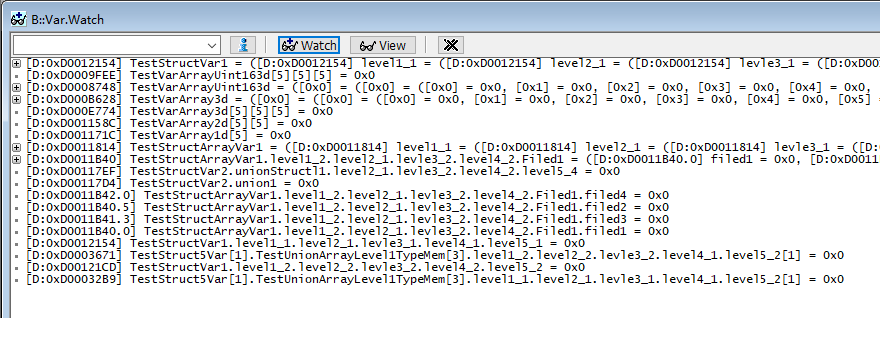
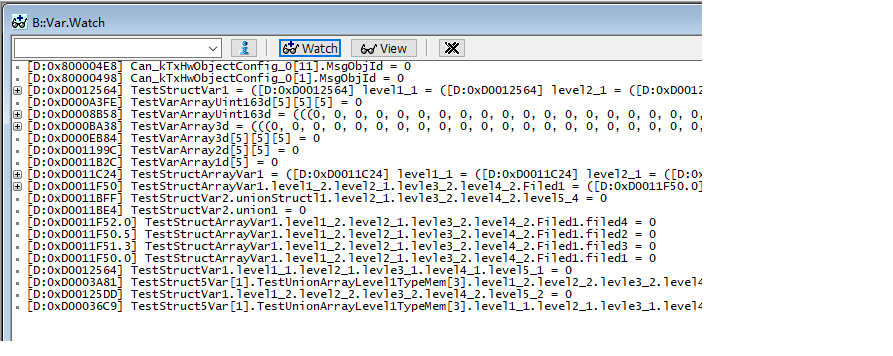
get_var_addr structure change.

diff --git a/elf_addr_dict.py b/elf_addr_dict.py
@@ -297,6 +297,47 @@ class ElfAddrObj(ELFFile):
             root_struct_name = self.offset_dict[root_type[self.DW_AT_TYPE]][self.DW_AT_NAME]
         return (root_struct_name, baseoffset, root_base_name)
 
+    def _get_array_member_info(self, mem, root_struct):
+        membaseoffset = 0
+        mem_base, offset = re.findall(self.re_pattern_varname, mem)[0]
+        off = re.findall(self._re_pattern, root_struct[mem_base]['DW_AT_data_member_location'])[0]
+        membaseoffset += int(off)
+        self._logger.info("Element :{0}, offset:{1}".format(mem_base, off))
+        root_type = self.offset_dict[self.array_type_dict[root_struct[mem_base][self.DW_AT_TYPE]][self.DW_AT_TYPE]]
+        mem_type = self.offset_dict[root_type[self.DW_AT_TYPE]]
+        mem_size = int(mem_type['DW_AT_byte_size'])
+        membaseoffset += mem_size * int(offset)
+        self._logger.info("Array type found with base member name:{0}, base size:{1}, membaseoffset:{2}".format(mem, mem_size,membaseoffset))
+        return (membaseoffset,root_type)
+
+    def _get_array_offset(self, array_name):
+        array_base_type = self.offset_dict[
+            self.offset_dict[self.variables_dict[array_name][self.DW_AT_TYPE]][self.DW_AT_TYPE]]
+        if array_base_type[self.ABBREV_TAG] != 'DW_TAG_base_type':
+            while ('DW_TAG_base_type' != array_base_type[self.ABBREV_TAG]):
+                array_base_type = self.offset_dict[array_base_type[self.DW_AT_TYPE]]
+        array_base_type_size = int(array_base_type['DW_AT_byte_size'])
+        variable_type = self.variables_dict[array_name][self.DW_AT_TYPE]
+        while (variable_type not in self.array_type_dict):
+            variable_type = self.offset_dict[variable_type][self.DW_AT_TYPE]
+        array_type = self.array_type_dict[variable_type]
+        if 'array_size_info' not in array_type:
+            temp_array = array_type['DW_AT_upper_bound'].copy()
+            temp_array.reverse()
+            array_size_level = []
+            if len(temp_array) > 1:
+                temp_value = (temp_array[0] + 1) * array_base_type_size
+                array_size_level.append(temp_value)
+                for i in temp_array[1:(len(temp_array) - 1)]:
+                    temp_value = (i + 1) * temp_value
+                    array_size_level.append(temp_value)
+                array_size_level.reverse()
+                array_size_level.append(array_base_type_size)
+            else:
+                array_size_level.append(array_base_type_size)
+            array_type['array_size_info'] = array_size_level
+        return array_type['array_size_info']
+
     def get_var_addrs(self, var):
         addr = None
         var = var.replace(' ', '')
@@ -304,23 +345,14 @@ class ElfAddrObj(ELFFile):
         if "." in var:
             names = var.split(".")
             root_full, members = names[0], names[1:]
-            all_mem_offset, baseoffset, root_base_name, root_type = 0, 0, root_full, None
+            all_mem_offset = 0
             root_struct_name, baseoffset, root_base_name = self._get_struct_info(root_full)
             root_struct = self.struct_dict[root_struct_name]
             for mem in members:
                 # first to find the member offset
                 mem_base = mem
                 if '[' in mem:
-                    mem_base, offset = re.findall(self.re_pattern_varname, mem)[0]
-                    off = re.findall(self._re_pattern, root_struct[mem_base]['DW_AT_data_member_location'])[0]
-                    all_mem_offset += int(off)
-                    self._logger.info("Element :{0}, offset:{1}".format(mem_base, off))
-                    root_type = self.offset_dict[self.array_type_dict[root_struct[mem_base][self.DW_AT_TYPE]][self.DW_AT_TYPE]]
-                    mem_type = self.offset_dict[root_type[self.DW_AT_TYPE]]
-                    mem_size = int(mem_type['DW_AT_byte_size'])
-                    membaseoffset = mem_size * int(offset)
-                    self._logger.info("Array type found with base member name:{0}, base size:{1}, membaseoffset:{2}".format(mem, mem_size,membaseoffset))
-
+                    membaseoffset, root_type = self._get_array_member_info( mem, root_struct)
                 else:
                     # None array field
                     off = re.findall(self._re_pattern, root_struct[mem_base]['DW_AT_data_member_location'])[0]
@@ -342,35 +374,9 @@ class ElfAddrObj(ELFFile):
                 base_addr = offset =  0
                 if array_name in self.symbol_dict:
                     res = [int(i) for i in re.findall(self.re_pattern_array, var[var.find('['):])]
-                    array_base_type = self.offset_dict[self.offset_dict[self.variables_dict[array_name][self.DW_AT_TYPE]][self.DW_AT_TYPE]]
-                    #array_base_type['abbrev_tag'] == 'DW_TAG_array_type'
-                    #array_base_type_name = array_base_type[self.DW_AT_NAME]
-                    if array_base_type[self.ABBREV_TAG] != 'DW_TAG_base_type':
-                        while('DW_TAG_base_type' != array_base_type[self.ABBREV_TAG]):
-                            array_base_type = self.offset_dict[array_base_type[self.DW_AT_TYPE]]
-                    array_base_type_size = int(array_base_type['DW_AT_byte_size'])
-                    variable_type = self.variables_dict[array_name][self.DW_AT_TYPE]
-                    while( variable_type not in self.array_type_dict):
-                        variable_type = self.offset_dict[variable_type][self.DW_AT_TYPE]
-                    array_type = self.array_type_dict[variable_type]
-                    if 'array_size_info' not in array_type:
-                        temp_array = array_type['DW_AT_upper_bound'].copy()
-                        temp_array.reverse()
-                        array_size_level = []
-                        if len(temp_array) > 1:
-                            temp_value = (temp_array[0] + 1) * array_base_type_size
-                            array_size_level.append(temp_value)
-                            for i in temp_array[1:(len(temp_array)-1)]:
-                                temp_value = (i + 1) * temp_value
-                                array_size_level.append(temp_value)
-                            array_size_level.reverse()
-                            array_size_level.append(array_base_type_size)
-                        else:
-                            array_size_level.append(array_base_type_size)
-                        array_type['array_size_info'] = array_size_level
-
+                    array_size_level = self._get_array_offset(array_name)
                     for i in range(len(res)):
-                        offset += res[i] * array_type['array_size_info'][i]
+                        offset += res[i] * array_size_level[i]
                     base_addr = self.symbol_dict[array_name]
                     self._logger.info("End processing variable:{0}, addr:{1:#x}".format(var, base_addr + offset))
                     addr = base_addr + offset

diff --git a/test.py b/test.py
@@ -12,17 +12,18 @@ class TestApp(unittest.TestCase):
 
     def test_1(self):
         elf = ElfAddrObj(os.path.join(os.getcwd(), r"example/Test.elf"))
-        self.assertEqual(0xd0012154, elf.get_var_addrs("TestStructVar1"))
-        self.assertEqual(0xd00121cd, elf.get_var_addrs("TestStructVar1.level1_2.level2_2.levle3_2.level4_2.level5_2"))
-        self.assertEqual(0xd00032b9, elf.get_var_addrs("TestStruct5Var[1].TestUnionArrayLevel1TypeMem[3].level1_1.level2_1.levle3_1.level4_1.level5_2[1]"))
-        self.assertEqual(0xd0012154, elf.get_var_addrs("TestStructVar1.level1_1.level2_1.levle3_1.level4_1.level5_1"))
-        self.assertEqual(0xd00117d4, elf.get_var_addrs("TestStructVar2.union1"))
-        self.assertEqual(0xd00117ef, elf.get_var_addrs("TestStructVar2.unionStructl1.level2_1.levle3_2.level4_2.level5_4"))
-        self.assertEqual(0xd000e774, elf.get_var_addrs("TestVarArray3d[5][5][5]"))
-        self.assertEqual(0xd001158c, elf.get_var_addrs("TestVarArray2d[5][5]"))
-        self.assertEqual(0xd001171c, elf.get_var_addrs("TestVarArray1d[5]"))
-        self.assertEqual(0xd0009fee, elf.get_var_addrs("TestVarArrayUint163d[5][5][5]"))
-        #self.assertEqual(0xd00, elf.get_var_addrs(""))
+        self.assertEqual(0xd0012564, elf.get_var_addrs("TestStructVar1"))
+        self.assertEqual(0xd00125dd, elf.get_var_addrs("TestStructVar1.level1_2.level2_2.levle3_2.level4_2.level5_2"))
+        self.assertEqual(0xd00036c9, elf.get_var_addrs("TestStruct5Var[1].TestUnionArrayLevel1TypeMem[3].level1_1.level2_1.levle3_1.level4_1.level5_2[1]"))
+        self.assertEqual(0xd0012564, elf.get_var_addrs("TestStructVar1.level1_1.level2_1.levle3_1.level4_1.level5_1"))
+        self.assertEqual(0xd0011be4, elf.get_var_addrs("TestStructVar2.union1"))
+        self.assertEqual(0xd0011bff, elf.get_var_addrs("TestStructVar2.unionStructl1.level2_1.levle3_2.level4_2.level5_4"))
+        self.assertEqual(0xd000eb84, elf.get_var_addrs("TestVarArray3d[5][5][5]"))
+        self.assertEqual(0xd001199c, elf.get_var_addrs("TestVarArray2d[5][5]"))
+        self.assertEqual(0xd0011b2c, elf.get_var_addrs("TestVarArray1d[5]"))
+        self.assertEqual(0xd000a3fe, elf.get_var_addrs("TestVarArrayUint163d[5][5][5]"))
+        self.assertEqual(0x800004e8, elf.get_var_addrs("Can_kTxHwObjectConfig_0[11].MsgObjId"))
+        self.assertEqual(0x80000498, elf.get_var_addrs("Can_kTxHwObjectConfig_0[1].MsgObjId"))
 
 
 
